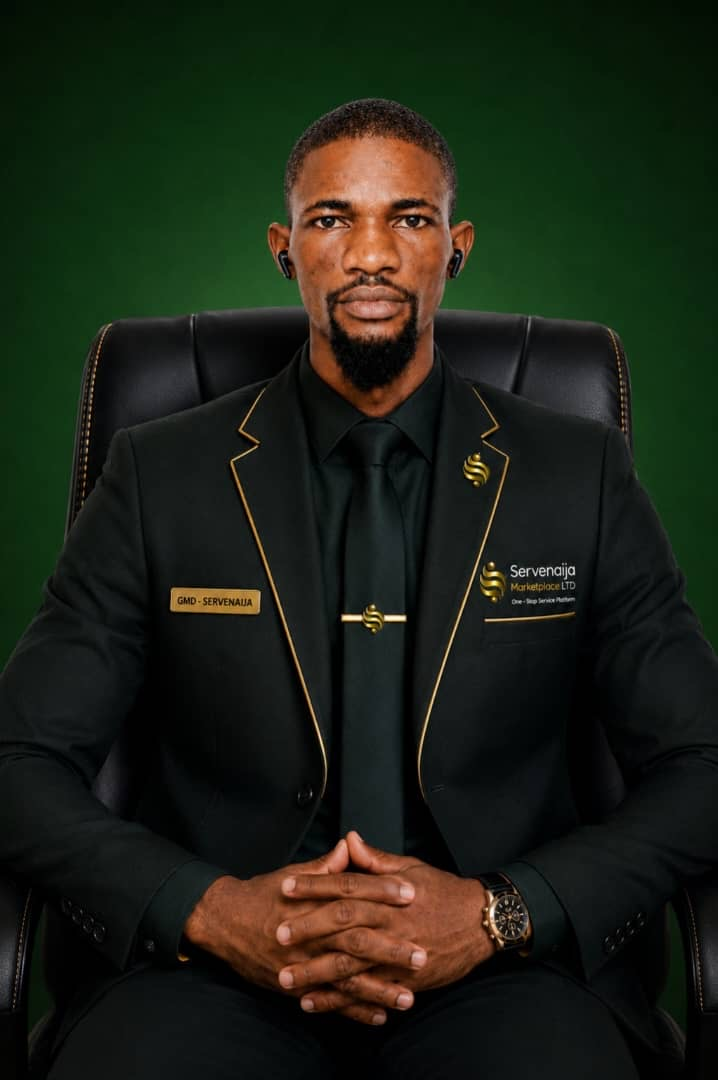
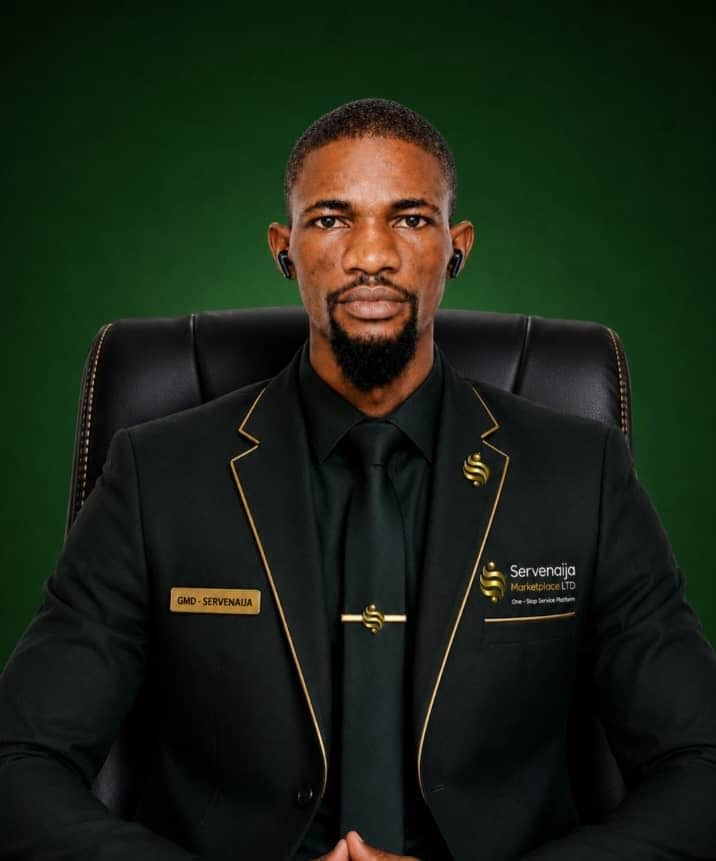
leaders name and images added

diff --git a/src/components/Footer.tsx b/src/components/Footer.tsx
@@ -1,30 +1,31 @@
 import { useEffect, useMemo, useState } from 'react'
 import ceo from '../assets/ceo.png'
-import gmd from '../assets/gmd.png'
+import GMD from '../assets/GMD.png'
+import coo from '../assets/COO.png';
 
 type Props = { className?: string }
 
 const leaders = [
   {
-    name: 'Dr. John A. Eze',
+    name: 'Ibor Saviour Enang',
     role: 'Chief Executive Officer (CEO)',
-    bio: 'Visionary leader with expertise in business strategy, innovation and digital transformation.',
+    bio: 'Visionary leader with expertise in business strategy, innovation, and digital transformation. He is responsible for setting the overall direction, driving growth, and leading ServeNaija\'s mission to revolutionize the service industry in Nigeria.',
     initials: 'JE',
-    image: ceo, 
+    image: ceo,
   },
   {
-    name: 'Mrs. Chioma Okafor',
+    name: 'Lucky Emeka Joseph',
     role: 'General Managing Director (GMD)',
-    bio: 'Seasoned professional passionate about operational excellence and business growth.',
+    bio: 'Seasoned professional passionate about operational excellence and business growth. He oversees the day-to-day management, strategic execution, and ensures alignment with the company\'s long-term vision and goals.',
     initials: 'CO',
-    image: gmd, 
+    image: GMD,
   },
   {
-    name: 'Mr. Tunde Adeyemi',
-    role: 'Chief Operation Officer (COO)',
-    bio: 'Finance expert focused on financial strategy, governance and sustainable value creation.',
+    name: 'Victoria Ekene N.',
+    role: 'Chief Operating Officer (COO)',
+    bio: 'Operations strategist with expertise in process optimization, operational efficiency, and business scaling. She is responsible for driving seamless service delivery and ensuring ServeNaija\'s operations run at peak performance.',
     initials: 'TA',
-    image: '/images/leaders/tunde-adeyemi.jpg', 
+    image: coo,
   },
 ]
 
@@ -35,7 +36,7 @@ const testimonials = [
     author: 'Adebayo T.',
     location: 'Lagos',
     initials: 'AT',
-    avatar: '/images/testimonials/adebayo.jpg', 
+    avatar: '/images/testimonials/adebayo.jpg',
   },
   {
     id: 'blessing-abuja',
@@ -43,7 +44,7 @@ const testimonials = [
     author: 'Blessing E.',
     location: 'Abuja',
     initials: 'BE',
-    avatar: '/images/testimonials/blessing.jpg', 
+    avatar: '/images/testimonials/blessing.jpg',
   },
   {
     id: 'chinedu-enugu',
@@ -51,7 +52,7 @@ const testimonials = [
     author: 'Chinedu M.',
     location: 'Enugu',
     initials: 'CM',
-    avatar: '/images/testimonials/chinedu.jpg', 
+    avatar: '/images/testimonials/chinedu.jpg',
   },
   {
     id: 'halimat-kano',
@@ -59,7 +60,7 @@ const testimonials = [
     author: 'Halimat R.',
     location: 'Kano',
     initials: 'HR',
-    avatar: '/images/testimonials/halimat.jpg', 
+    avatar: '/images/testimonials/halimat.jpg',
   },
 ]
 
@@ -123,8 +124,8 @@ export default function LeadershipTestimonialsSection({ className }: Props) {
           <article key={leader.name} className="section-four__leader-card">
             <div className="section-four__leader-photo" aria-hidden="true">
               {!imageErrors[leader.name] && leader.image ? (
-                <img 
-                  src={leader.image} 
+                <img
+                  src={leader.image}
                   alt={leader.name}
                   className="section-four__leader-image"
                   onError={() => handleImageError(leader.name)}
@@ -165,8 +166,8 @@ export default function LeadershipTestimonialsSection({ className }: Props) {
               <div className="section-four__author">
                 <span className="section-four__author-avatar" aria-hidden="true">
                   {!imageErrors[item.id] && item.avatar ? (
-                    <img 
-                      src={item.avatar} 
+                    <img
+                      src={item.avatar}
                       alt={item.author}
                       className="section-four__author-image"
                       onError={() => handleImageError(item.id)}